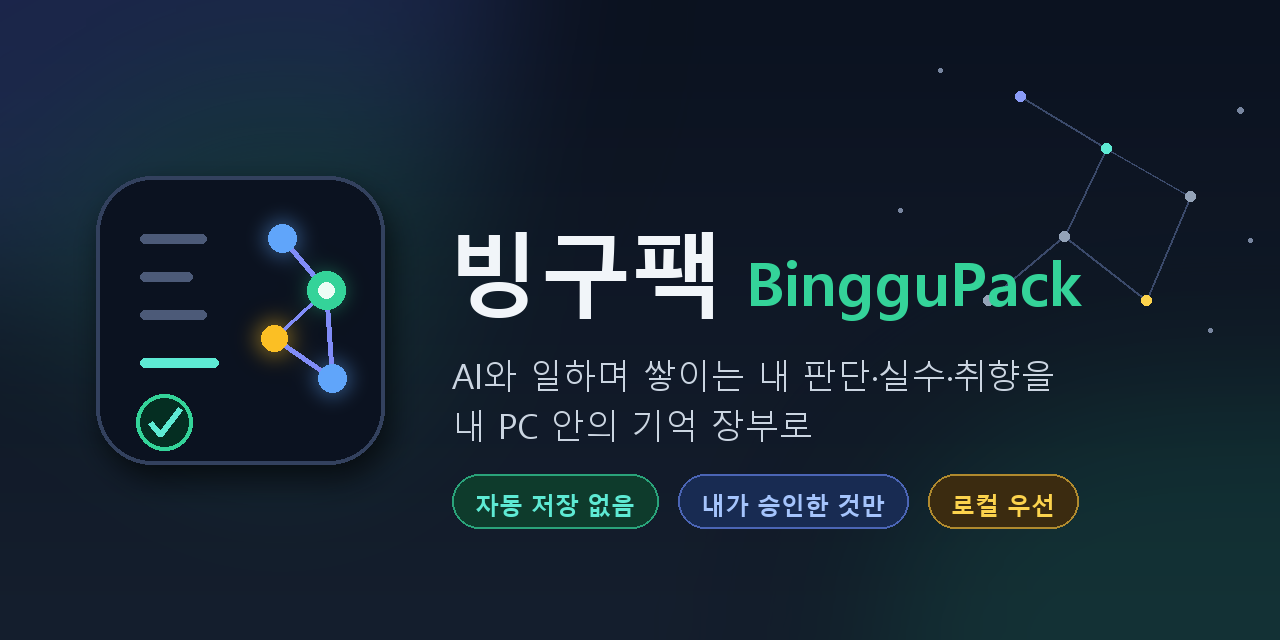
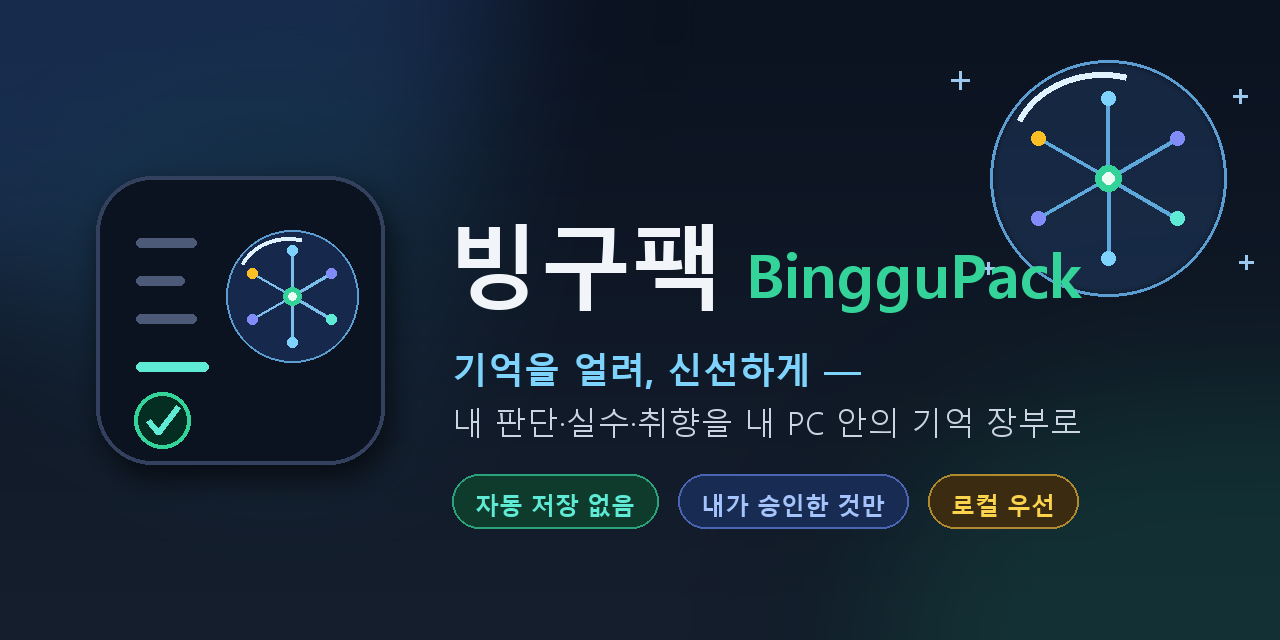
feat(assets): 네이밍 연동 아이덴티티 v3 — 빙구(氷球) 얼음 구슬 컨셉
- 빙구팩 = 빙(氷)+구(球) 얼음 구슬 · 아이스팩(신선 보존) — '기억을 얼려 보존'을 심볼로 직결.
- 로고: 유리 구체(빙구) 속 눈결정 지식그래프(6가지=근거 엣지·끝점=기억 노드·민트 코어=승인된 기억)
  + 스펙큘러 하이라이트·서리 반짝임·장부 라인·승인 도장 유지.
- 배너/소셜: 고스트 빙구 + 서리 파티클 + 태그라인 '기억을 얼려, 신선하게' 카피 연동.
- 검증: Edge 헤드리스 렌더 눈검수·tree scan CLEAN

diff --git a/assets/_gen_media.py b/assets/_gen_media.py
@@ -139,7 +139,7 @@ def gen_gif():
     print("demo.gif OK (%d frames)" % len(frames))
 
 
-# ── social_preview.png — 글로우 + 별자리 ────────────────────────────
+# ── social_preview.png — 빙구(얼음 구슬) 컨셉 · 글로우 ──────────────
 def gen_social():
     W2, H2 = 1280, 640
     im = Image.new("RGB", (W2, H2), BG)
@@ -147,58 +147,72 @@ def gen_social():
     for i in range(H2):  # 베이스 그라데이션
         t = i / H2
         d.line([(0, i), (W2, i)], fill=(11 + int(10 * t), 18 + int(13 * t), 32 + int(14 * t)))
-    # 글로우 레이어(인디고 좌상 · 민트 우하)
+    # 글로우(아이스 좌상 · 민트 우하)
     glow = Image.new("RGBA", (W2, H2), (0, 0, 0, 0))
     gd = ImageDraw.Draw(glow)
-    gd.ellipse([-260, -300, 560, 340], fill=(56, 72, 150, 90))
+    gd.ellipse([-260, -300, 560, 340], fill=(46, 88, 158, 90))
     gd.ellipse([820, 330, 1560, 900], fill=(16, 90, 70, 80))
-    gd.ellipse([60, 120, 500, 520], fill=(52, 211, 153, 26))
+    gd.ellipse([60, 120, 500, 520], fill=(56, 189, 248, 22))
     im = Image.alpha_composite(im.convert("RGBA"), glow.filter(ImageFilter.GaussianBlur(90))).convert("RGB")
     d = ImageDraw.Draw(im)
-    # 별자리(우측)
-    pts = [(1020, 96), (1106, 148), (1064, 236), (1190, 196), (1146, 300), (988, 300)]
-    edges = [(0, 1), (1, 2), (1, 3), (2, 4), (3, 4), (2, 5)]
-    for a, b in edges:
-        d.line([pts[a], pts[b]], fill=(59, 74, 107), width=2)
-    star_c = [(139, 156, 248), (94, 234, 212), (148, 163, 184), (148, 163, 184), (252, 211, 77), (148, 163, 184)]
-    for (x, y), c in zip(pts, star_c):
-        d.ellipse([x - 5, y - 5, x + 5, y + 5], fill=c)
-    for x, y, r in [(940, 70, 2), (1240, 110, 3), (1210, 330, 2), (900, 210, 2), (1250, 240, 2)]:
-        d.ellipse([x - r, y - r, x + r, y + r], fill=(120, 134, 160))
-    # 로고 카드(그림자)
+
+    ICE = (125, 211, 252)
+
+    def snowflake(cx, cy, arm, tipr, lw, alpha_line, core_r, tip_colors):
+        """눈결정 그래프 — 6가지 + 끝점 노드 + 민트 코어."""
+        import math
+        tips = []
+        for k in range(6):
+            ang = math.radians(k * 60 - 90)
+            tx, ty = cx + arm * math.cos(ang), cy + arm * math.sin(ang)
+            d.line([(cx, cy), (tx, ty)], fill=alpha_line, width=lw)
+            tips.append((tx, ty))
+        for (tx, ty), c in zip(tips, tip_colors):
+            d.ellipse([tx - tipr, ty - tipr, tx + tipr, ty + tipr], fill=c)
+        d.ellipse([cx - core_r, cy - core_r, cx + core_r, cy + core_r], fill=(52, 211, 153))
+        d.ellipse([cx - core_r // 2, cy - core_r // 2, cx + core_r // 2, cy + core_r // 2], fill=(236, 253, 245))
+
+    TIPS = [ICE, (129, 140, 248), (94, 234, 212), ICE, (129, 140, 248), (251, 191, 36)]
+
+    # 우측: 고스트 빙구
+    ocx, ocy, orr = 1108, 178, 118
+    ov = Image.new("RGBA", (W2, H2), (0, 0, 0, 0))
+    ImageDraw.Draw(ov).ellipse([ocx - orr, ocy - orr, ocx + orr, ocy + orr], fill=(39, 75, 126, 90))
+    im = Image.alpha_composite(im.convert("RGBA"), ov.filter(ImageFilter.GaussianBlur(4))).convert("RGB")
+    d = ImageDraw.Draw(im)
+    d.ellipse([ocx - orr, ocy - orr, ocx + orr, ocy + orr], outline=(93, 158, 210), width=3)
+    d.arc([ocx - orr + 18, ocy - orr + 12, ocx + orr - 30, ocy + orr - 60], 205, 285, fill=(224, 242, 254), width=6)
+    snowflake(ocx, ocy, 80, 7, 4, (94, 168, 220), 13, TIPS)
+    # 서리 반짝임
+    for x, y, l in [(960, 80, 9), (1246, 262, 7), (988, 268, 6), (1240, 96, 7)]:
+        d.line([(x, y - l), (x, y + l)], fill=(156, 200, 238), width=3)
+        d.line([(x - l, y), (x + l, y)], fill=(156, 200, 238), width=3)
+
+    # 로고 카드
     lx, ly, ls = 96, 176, 288
     shadow = Image.new("RGBA", (W2, H2), (0, 0, 0, 0))
     ImageDraw.Draw(shadow).rounded_rectangle([lx + 6, ly + 14, lx + ls + 6, ly + ls + 14], 56, fill=(0, 0, 0, 160))
     im = Image.alpha_composite(im.convert("RGBA"), shadow.filter(ImageFilter.GaussianBlur(14))).convert("RGB")
     d = ImageDraw.Draw(im)
     d.rounded_rectangle([lx, ly, lx + ls, ly + ls], 56, fill=(11, 18, 32), outline=(51, 65, 94), width=4)
-    for i, w in enumerate((66, 52, 66)):
-        yy = ly + 58 + i * 38
-        d.rounded_rectangle([lx + 44, yy, lx + 44 + w, yy + 9], 5, fill=(76, 90, 120))
-    d.rounded_rectangle([lx + 44, ly + 182, lx + 122, ly + 191], 5, fill=MINT)
-    pts2 = {"a": (lx + 186, ly + 62), "b": (lx + 230, ly + 114), "c": (lx + 178, ly + 162), "e": (lx + 236, ly + 202)}
-    # 노드 글로우
-    ng = Image.new("RGBA", (W2, H2), (0, 0, 0, 0))
-    ngd = ImageDraw.Draw(ng)
-    for p, c in (("a", (96, 165, 250)), ("b", (52, 211, 153)), ("c", (251, 191, 36)), ("e", (96, 165, 250))):
-        x, y = pts2[p]
-        ngd.ellipse([x - 26, y - 26, x + 26, y + 26], fill=c + (110,))
-    im = Image.alpha_composite(im.convert("RGBA"), ng.filter(ImageFilter.GaussianBlur(12))).convert("RGB")
-    d = ImageDraw.Draw(im)
-    for p, q in (("a", "b"), ("b", "c"), ("b", "e"), ("c", "e")):
-        d.line([pts2[p], pts2[q]], fill=(129, 140, 248), width=5)
-    for p, c, r in (("a", (96, 165, 250), 14), ("b", (52, 211, 153), 19), ("c", (251, 191, 36), 13), ("e", (96, 165, 250), 14)):
-        x, y = pts2[p]
-        d.ellipse([x - r, y - r, x + r, y + r], fill=c)
-    d.ellipse([pts2["b"][0] - 8, pts2["b"][1] - 8, pts2["b"][0] + 8, pts2["b"][1] + 8], fill=(236, 253, 245))
+    for i, w in enumerate((60, 48, 60)):
+        yy = ly + 62 + i * 38
+        d.rounded_rectangle([lx + 40, yy, lx + 40 + w, yy + 9], 5, fill=(76, 90, 120))
+    d.rounded_rectangle([lx + 40, ly + 186, lx + 112, ly + 195], 5, fill=MINT)
+    # 카드 속 미니 빙구
+    mcx, mcy, mrr = lx + 196, ly + 120, 66
+    d.ellipse([mcx - mrr, mcy - mrr, mcx + mrr, mcy + mrr], fill=(22, 41, 77), outline=(93, 158, 210), width=2)
+    d.arc([mcx - mrr + 10, mcy - mrr + 7, mcx + mrr - 18, mcy + mrr - 34], 205, 285, fill=(224, 242, 254), width=4)
+    snowflake(mcx, mcy, 46, 5, 3, (125, 190, 235), 9, TIPS)
     # 승인 도장
-    d.ellipse([lx + 40, ly + 218, lx + 96, ly + 274], fill=(5, 46, 34), outline=(52, 211, 153), width=4)
-    d.line([(lx + 54, ly + 246), (lx + 64, ly + 258), (lx + 84, ly + 232)], fill=(94, 234, 212), width=6, joint="curve")
+    d.ellipse([lx + 38, ly + 216, lx + 94, ly + 272], fill=(5, 46, 34), outline=(52, 211, 153), width=4)
+    d.line([(lx + 52, ly + 244), (lx + 62, ly + 256), (lx + 82, ly + 230)], fill=(94, 234, 212), width=6, joint="curve")
+
     # 타이포
-    d.text((448, 210), "빙구팩", font=font(92, True), fill=(241, 245, 249))
-    d.text((746, 240), "BingguPack", font=font(60, True), fill=(52, 211, 153))
-    d.text((452, 352), "AI와 일하며 쌓이는 내 판단·실수·취향을", font=font(34), fill=(203, 213, 225))
-    d.text((452, 402), "내 PC 안의 기억 장부로", font=font(34), fill=(203, 213, 225))
+    d.text((448, 202), "빙구팩", font=font(92, True), fill=(241, 245, 249))
+    d.text((746, 232), "BingguPack", font=font(60, True), fill=(52, 211, 153))
+    d.text((452, 344), "기억을 얼려, 신선하게 —", font=font(36, True), fill=(125, 211, 252))
+    d.text((452, 400), "내 판단·실수·취향을 내 PC 안의 기억 장부로", font=font(32), fill=(203, 213, 225))
     pills = [("자동 저장 없음", (14, 59, 44), (42, 163, 122), MINT),
              ("내가 승인한 것만", (24, 43, 82), (75, 101, 181), (165, 196, 252)),
              ("로컬 우선", (59, 43, 16), (176, 138, 46), (252, 211, 77))]
